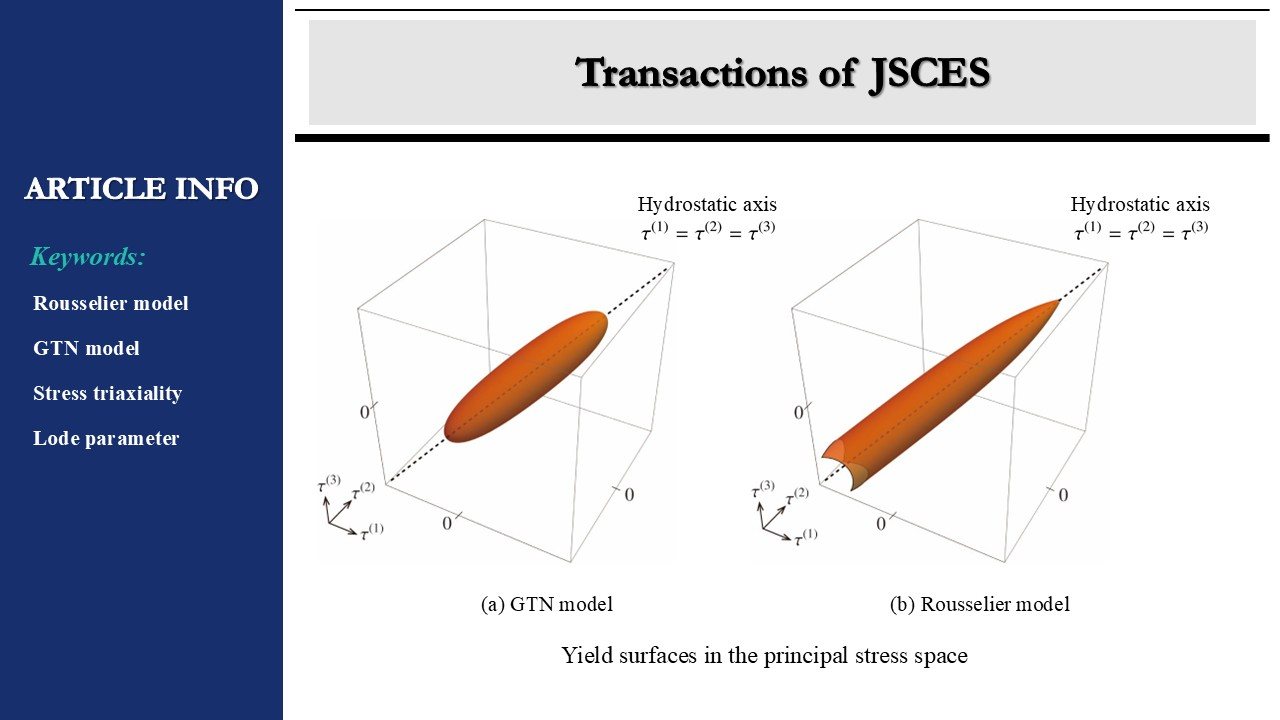
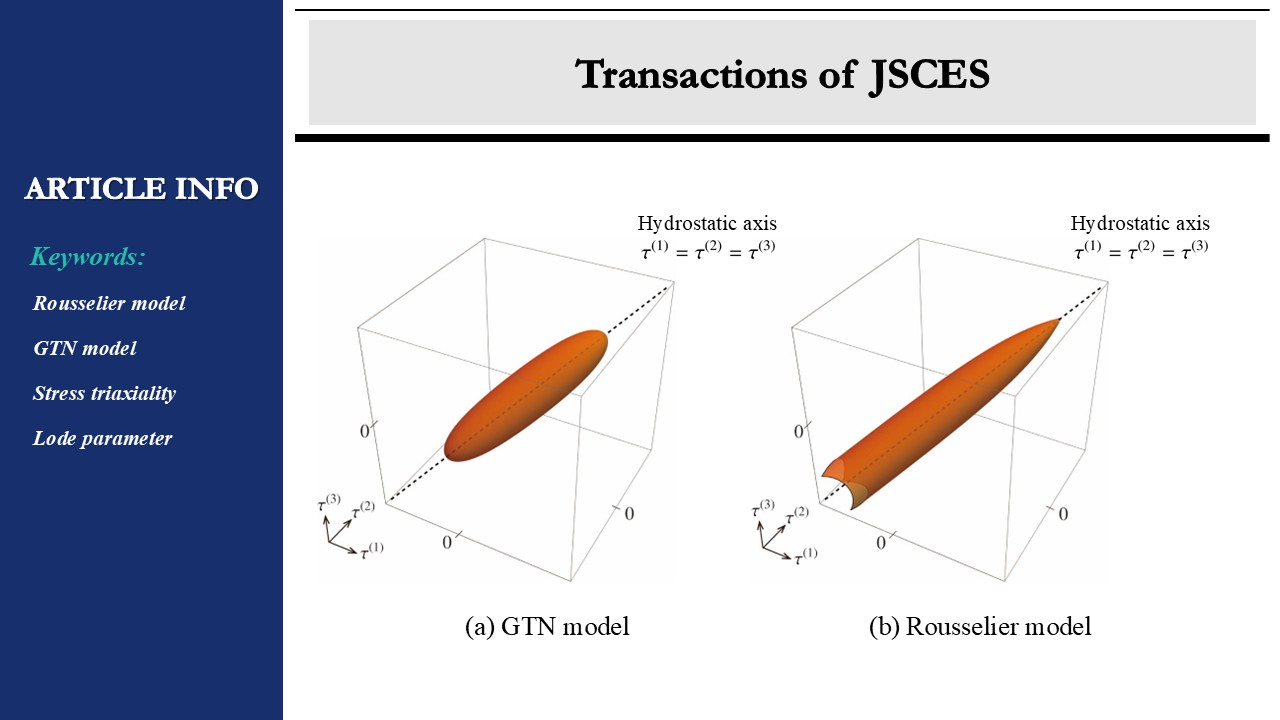
mod

diff --git a/assets/css/custom.css b/assets/css/custom.css
@@ -39,3 +39,14 @@ main h1 {
 .powered-by {
   display: none !important;
 }
+
+/* 学会のアブストを非表示にする */
+.no-summary h3 + p,
+.no-summary .article-title + p,
+.no-summary .abstract,
+.no-summary .summary {
+  display: none !important;
+}
+
+
+

diff --git a/content/en/_index.md b/content/en/_index.md
@@ -66,14 +66,16 @@ sections:
     id: talks
     content:
       title: Intl. & Domestic Conferences
-      count: 4
+      count: 3
       filters:
         folders:
           - events
     design:
       #view: article-grid
       #columns: 2
+      #view: slides-gallery
       view: card
+      #css_class: "no-summary"
   - block: collection
     id: talks
     content:

diff --git a/content/ja/_index.md b/content/ja/_index.md
@@ -66,12 +66,13 @@ sections:
     id: talks
     content:
       title: 国際・国内学会
-      count: 4
+      count: 3
       filters:
         folders:
           - events
     design:
       view: card
+      #css_class: "no-summary"
   - block: collection
     id: talks
     content:
